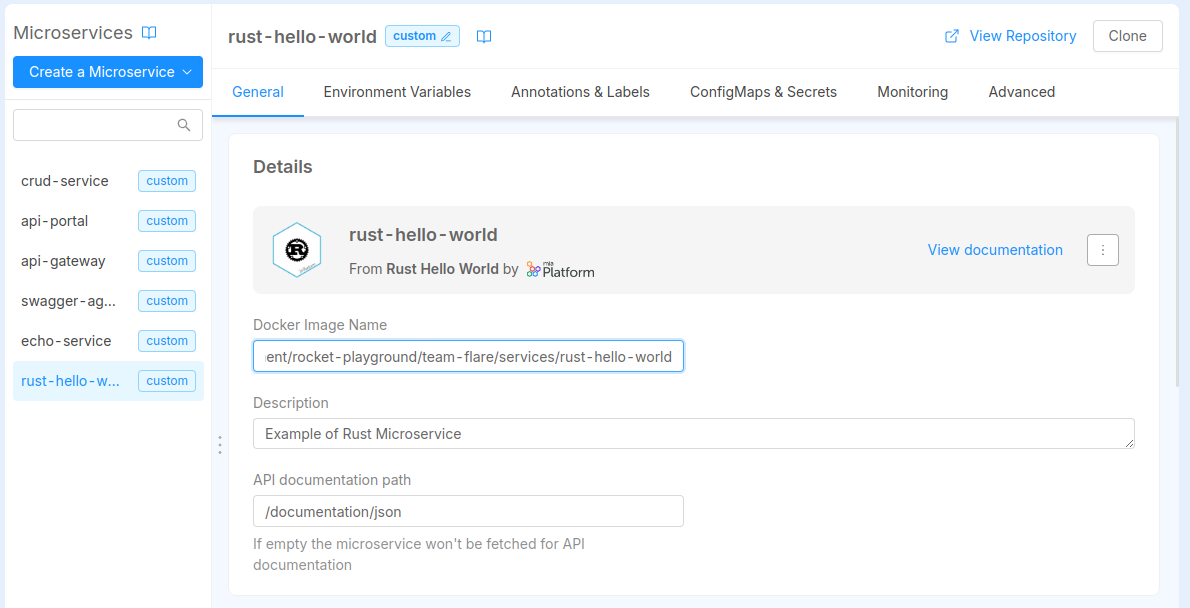
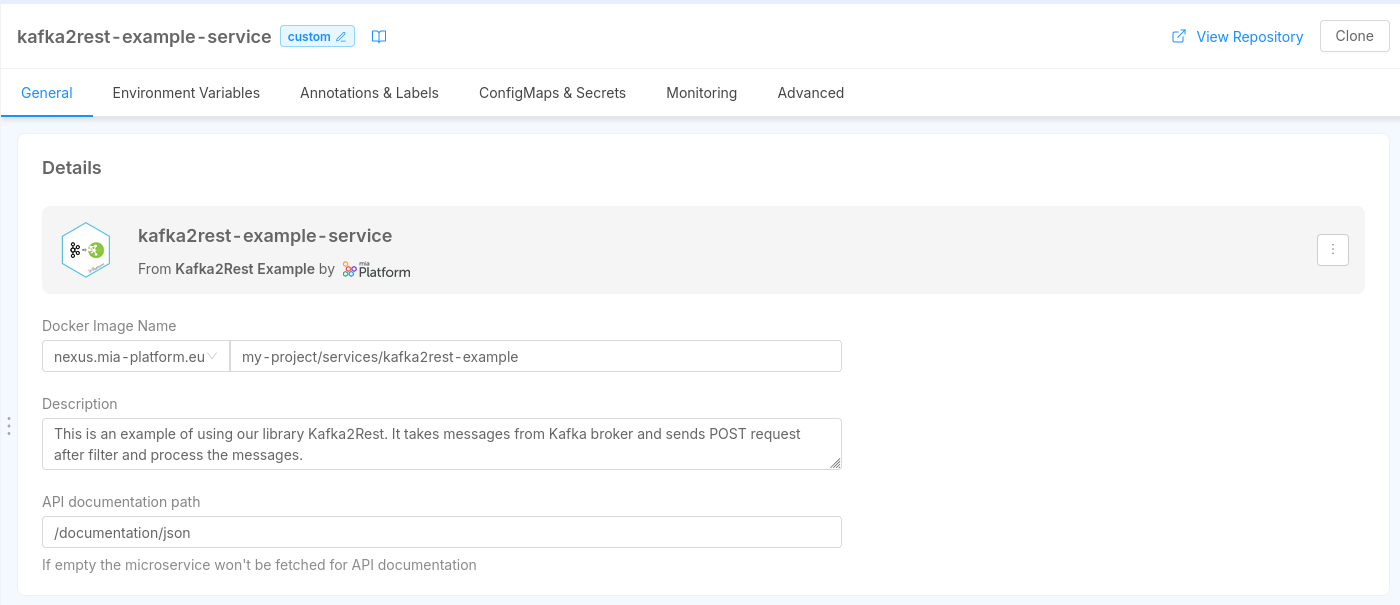
Microservices

diff --git a/docs/development_suite/api-console/api-design/services.md b/docs/development_suite/api-console/api-design/services.md
@@ -46,8 +46,8 @@ Whether you select Example or Template, you can create your microservice by fill
 
 - **GitLab Repository owner** (*required*): you have to select, from a list of options, where you want to save your microservice
 
-:::warning
-If you are using GitLab and don't see any option in *Git repository owner*, it means that you have no access to the GitLab group where the project resides: please contact your console administrator to solve this issue.
+:::caution
+If you are using GitLab and don't see any option in *Git repository owner*, it probably means that you have no access to the GitLab group where the project resides: please contact your console administrator to solve this issue.
 :::
 
 - **Git Repository Name** (*required*): name of the git repository of the service
@@ -59,11 +59,13 @@ If you are using GitLab and don't see any option in *Git repository owner*, it m
 Finally to create the Microservice push **create**.
 
 :::warning
-Once the service is created on your Git provider, you will not be able to delete it anymore from Console.
+
+Once the service is created on your Git provider, the Console won't be able to delete it. In case you need to delete the service, you have to do it manually from your Git provider.
+
 :::
 
 :::info
-When creating your microservice, the Console also generates a CI file (e.g. `.gitlab-ci.yml`) along side the service files.
+When creating your microservice, the Console also generates a CI/CD file (e.g. `.gitlab-ci.yml`) alongside the service files.
 This file is used to instruct your pipeline provider for continuous integration and continuous deployment.
 
 You can set up the CI file by yourself or use instead Mia-Platform pipeline templates.
@@ -79,12 +81,13 @@ At this [link](/development_suite/api-console/api-design/custom_microservice_get
 The only requirement to import an external Microservice is that the Docker Image needs to be already built.
 Once you select the card to upload a Docker image, you can see a new tab where you need to fill in the following information:
 
-- **Name** (*required*): this is the internal hostname;  
+- **Name** (*required*): this is the internal hostname;
 - **Docker Image Name** (*required*): the complete docker image name of the service. The docker image repository must be accessible by the k8s cluster;
 - **Repository URL** (*optional*): the URL to the repository hosting the microservice code. The user will be able to easily clone the repository from the service detail page later.
 - **Description** (*optional*): this is the description of your microservice.
 
 :::info
+
   Docker image names have the format `hostname/imagename:tag`, where hostname and tag are optional.
 
 - `hostname` is the registry hostname where the docker image is hosted
@@ -95,7 +98,7 @@ Once you select the card to upload a Docker image, you can see a new tab where y
 
 ![service-docker-image](img/service-docker-image.png)
 
-Finally to create the Microservice push **create**.
+Finally to create the Microservice click **Create**.
 
 :::info
 For a step-by-step guide on creating a microservice using a Docker image, refer to the [dedicated tutorial](/console/tutorials/microservice-from-docker-image.md).
@@ -104,31 +107,53 @@ For a step-by-step guide on creating a microservice using a Docker image, refer 
 ## Manage Microservices
 
 Microservices, and workloads in general, are the most important entity in your Project architecture as they hold the core business
-logics. In the Console you can manage all the configuration that you may need in your Project lifecycle: from configuration variables, files, exposed ports and many others.
+logics. In the Console you can manage all the configuration that you may need in your Project lifecycle: from configuration variables to files, exposed ports and many others.
 
 - **View Repository**: this button, present only in microservices created from Examples and Templates, allows you to go directly to your git repository from the Console.
-- **Clone**: this button, present only in microservices created from Examples and Templates, enables to clone code repository directly from Console. The code repository can be copied with both ssh and https.
+- **Clone**: this button, present only in microservices created from Examples and Templates, enables to clone code repository directly from Console. The code repository can be copied with both `ssh` and `https`.
 
-The detail of each microservice is divided in the following sections:
+The following paragraphs explain each section of the Microservice detail page.
 
 ### Microservice
 
 In this section, you can review and update some base information about the microservice, like the description and the API documentation path.
 
-In case your microservice has been created manually from a Docker Image or from a Marketplace Template/Example, you can also configure the *Docker Image Name*.
+#### Microservice Details
 
-![service-detail-new](img/service-detail-new.png)
+The Details card contains and lets you manage information such as the version, the docker image and the description of the microservice.
 
-If the microservice has been created from a versioned Marketplace plugin, the *Docker Image Name* is shown in *read-only* mode and cannot be changed, since the it is managed by the Marketplace plugin itself.
+In case your microservice has been created from a Plugin, the *Docker Image Name* is shown in *read-only* mode and cannot be changed, since the it is managed by the Plugin itself.
 
 ![Detail of a service generated from a versioned Marketplace plugin](img/versioned-service.png)
 
+Otherwise, if your microservice has been created manually from a Docker Image or from a Marketplace Template/Example, you can also configure the *Docker Image Name* through a dedicated input field.
+
+![service-detail-new](img/service-detail-new.png)
+
+The *Docker Image Name* is the name of the Docker image that will be used to deploy the microservice. It is composed by the container registry hostname, the image name and the tag.
+
+The container registry hostname can be changed with a dropdown list, which contains the [Container Registries configured in the Project Settings](/console/project-configuration/project-settings.md#container-registries).
+
+![Docker Image input field](img/microservices-docker-image-field.png)
+
+The image name and the tag can be manually inserted in the dedicated input field.
+
+:::caution
+
+Starting from version v13.x.x, the container registry hostname is not part anymore of the Docker Image Name manual input field, but it can only be selected from the dropdown list.
+
+If you need to use a container registry hostname that is not present in the dropdown list, you have to create it in the Project Settings, or contact your Project Administrator or Company Owner to do it for you.
+
+:::
+
 :::info
+
 Anytime you access to the configuration page of your plugin, you will be informed if the related Marketplace item have updates with an icon next to the version name.
 
 ![Detail of the Microservice badge, with the icon to notify a new version available](img/marketplace-notification.png)
 
 This is the best way to be aware of updates of your Marketplace plugins.
+
 :::
 
 In case you want to manually update the Docker Image Name, you can click on the right-side menu button where a menu will pop-up.

diff --git a/docs/console/project-configuration/project-settings.md b/docs/console/project-configuration/project-settings.md
@@ -187,8 +187,8 @@ This section allows you to view, add, edit, and delete container registries.
 
 You can add a new container registry by clicking on the "Add Container Registry" button. This will open a modal where you can insert the required information to add a new container registry:
 
-- **Name**: the name of the container registry. It is used to identify the container registry in the Console, you can choose any name you prefer.
-- **Registry Hostame**: the hostname of the container registry. It refers to the container registry URL, for example, `docker.io` for Docker Hub.
+- **Name**: the name of the container registry. You can choose any name you prefer. It is used to identify the container registry in the Console, therefore it is unique within the Project.
+- **Registry Hostame**: the hostname of the container registry. It refers to the container registry URL, for example, `docker.io` for Docker Hub. Multiple container registries can have the same hostname, since they might have different credentials.
 - **Image Pull Secret Name**: the name of the Image Pull Secret that will be used by Kubernetes to pull images from the container registry. Notice that the Secret must be present in the Kubernetes cluster where the Project is deployed, the Console won't create it for you.
 - **Default Registry**: if enabled, the container registry will be set as the default one for the Project, meaning it will be the default selected when creating a new service from a Template or Example. Notice that if the Project has only one container registry, it will be set as the default one automatically.
 
@@ -203,9 +203,10 @@ behaving like before the introduction of the container registries feature.
 
 :::
 
-#### How Image Pull Secret are configured to Kubernetes
+### How Image Pull Secret are configured to Kubernetes
 
-When creating Kubernetes manifests of the Project service deployments, the Console will create and insert an array of `imagePullSecrets` in the `spec` section of the `Deployment` resource. This array will contain all the names of the Image Pull Secrets configured in the Console.
+When creating Kubernetes manifests of the Project service deployments, the Console will create and insert an array of `imagePullSecrets` in the `spec` section of the `Deployment` 
+This array contains all the names of the Image Pull Secrets configured in the Console, along with the Image Pull Secrets configured in the Container Registries section.
 
 The configuration applies to all the Microservices and CronJobs of the Project.
 

diff --git a/docs/console/company-configuration/project-blueprint.md b/docs/console/company-configuration/project-blueprint.md
@@ -284,7 +284,7 @@ This section allows you to view, add, edit, and delete the container registries 
 
 You can add a new container registry by clicking on the "Add Container Registry" button. This will open a modal where you can insert the required information to add a new container registry:
 
-- **Name**: the name of the container registry. It is used to identify the container registry in the Console, you can choose any name you prefer.
+- **Name**: the name of the container registry. You can choose any name you prefer. It is used to identify the container registry in the Console, therefore it is unique within the Project.
 - **Registry Hostame**: the hostname of the container registry. It refers to the container registry URL, for example, `docker.io` for Docker Hub.
 - **Image Pull Secret Name**: the name of the Image Pull Secret that will be used by Kubernetes to pull images from the container registry. Notice that the Secret must be present in the Kubernetes cluster where the Project is deployed, the Console won't create it for you.
 - **Default Registry**: if enabled, the container registry will be set as the default one for the Project, meaning it will be the default selected when creating a new service from a Template or Example. Notice that if the Project has only one container registry, it will be set as the default one automatically.

diff --git a/docs/development_suite/api-console/api-design/overview.md b/docs/development_suite/api-console/api-design/overview.md
@@ -6,6 +6,7 @@ sidebar_label: Overview
 
 The Design section allows you to modify the configuration and architecture of your project by customizing the use of various resources such as CRUD, Microservices, Endpoints and much more.
 
+<!-- TODO: update this screenshot -->
 ![Design Area](./img/design-area-overview.png)
 
 Using the sidebar it is possible to navigate between the different sections of the Console, and design your project as you prefer.
